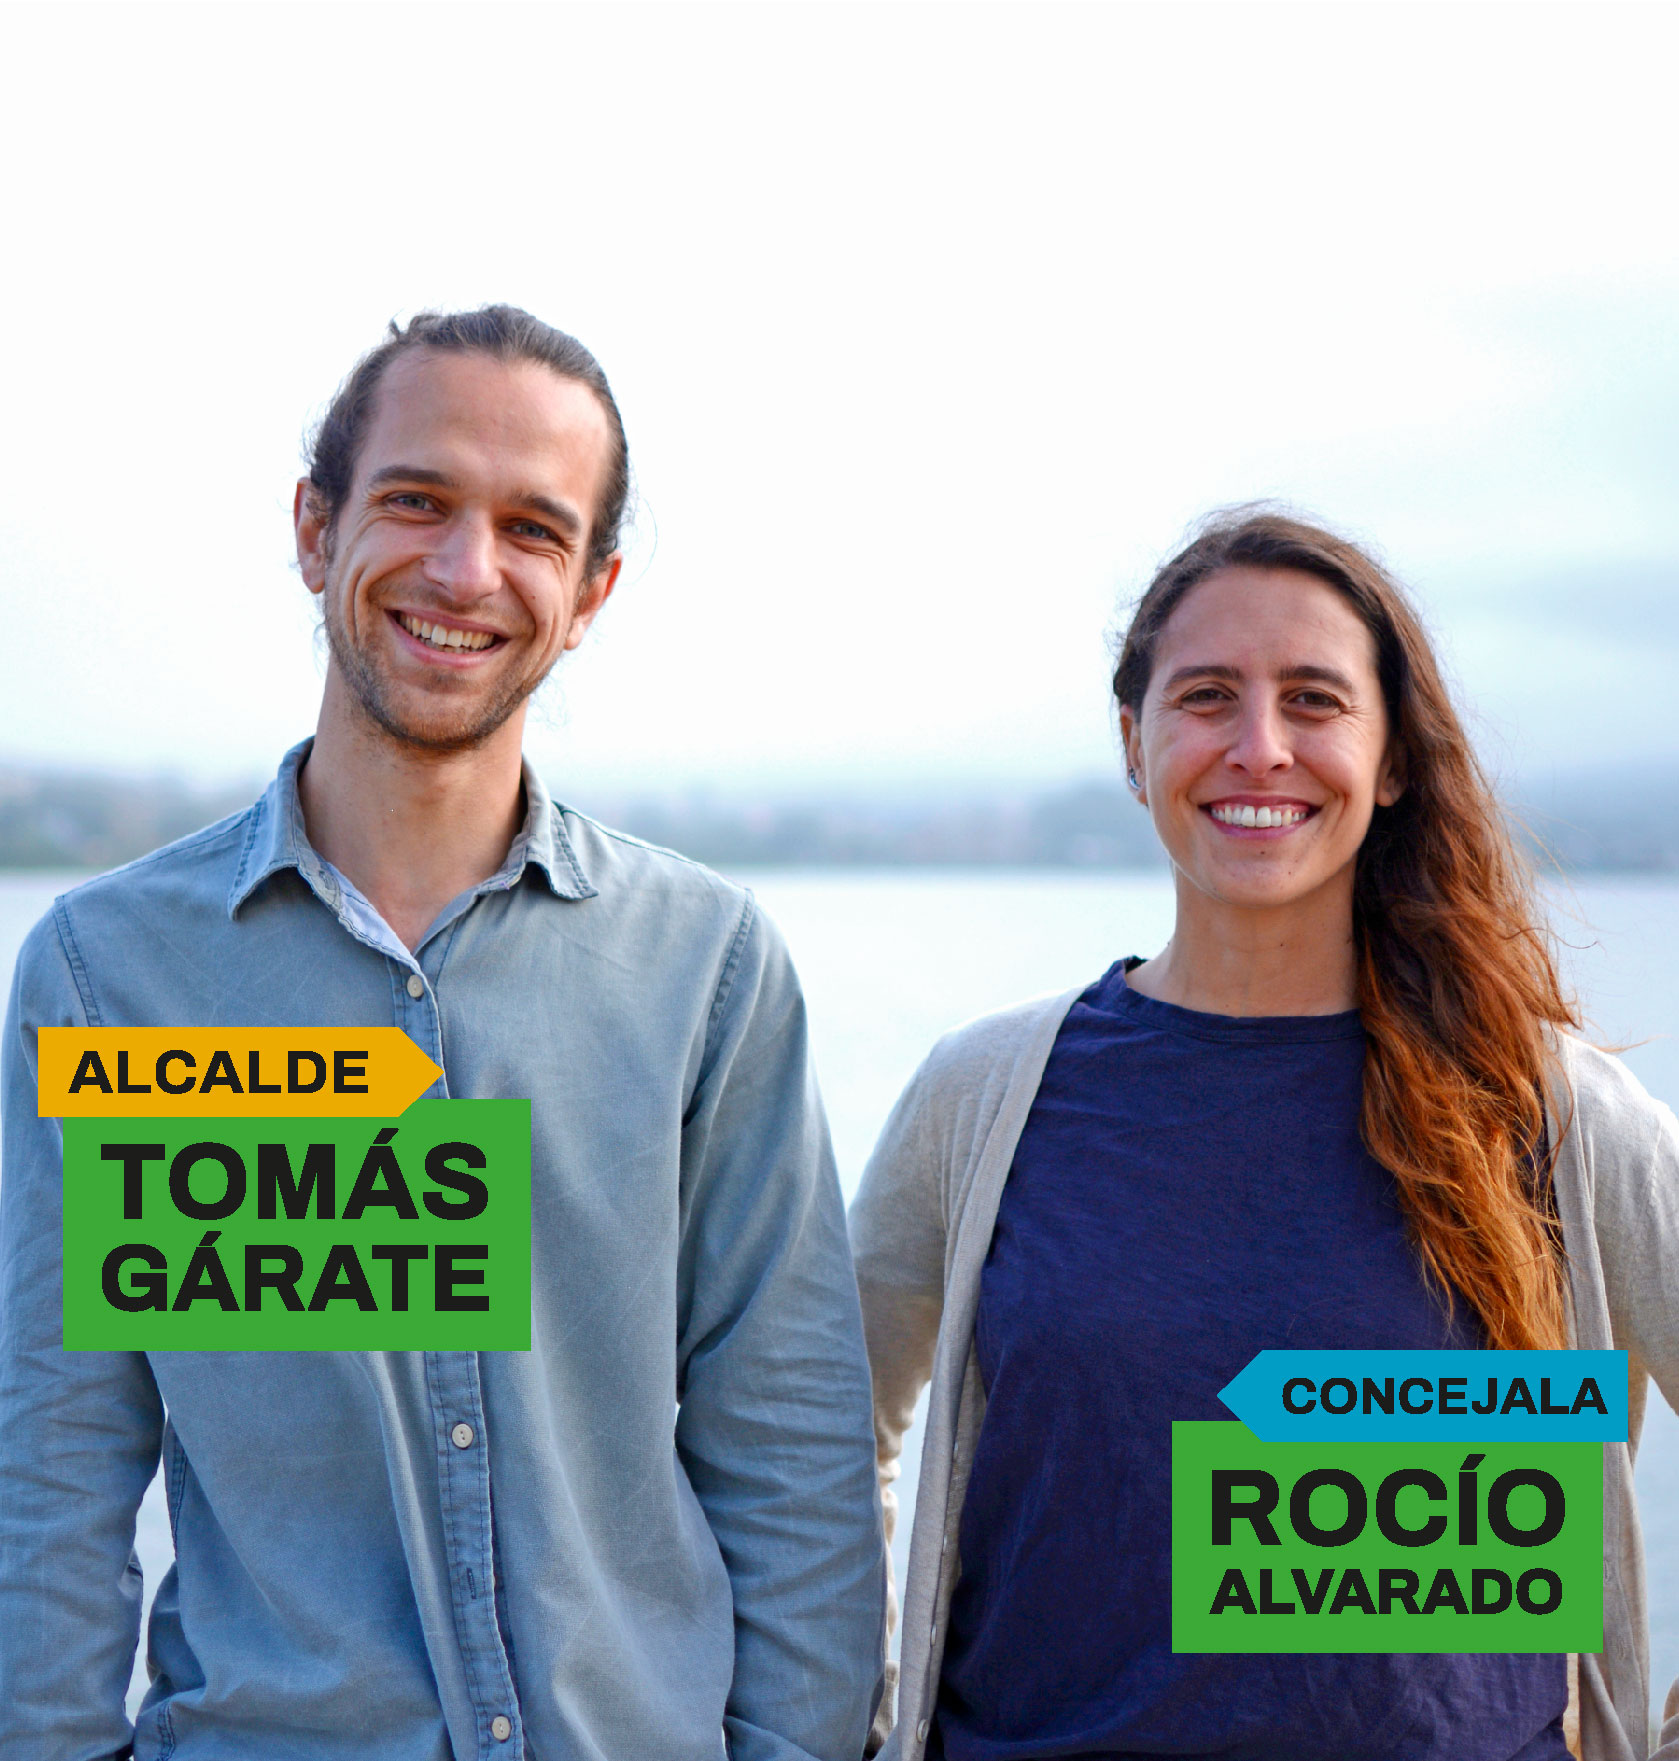
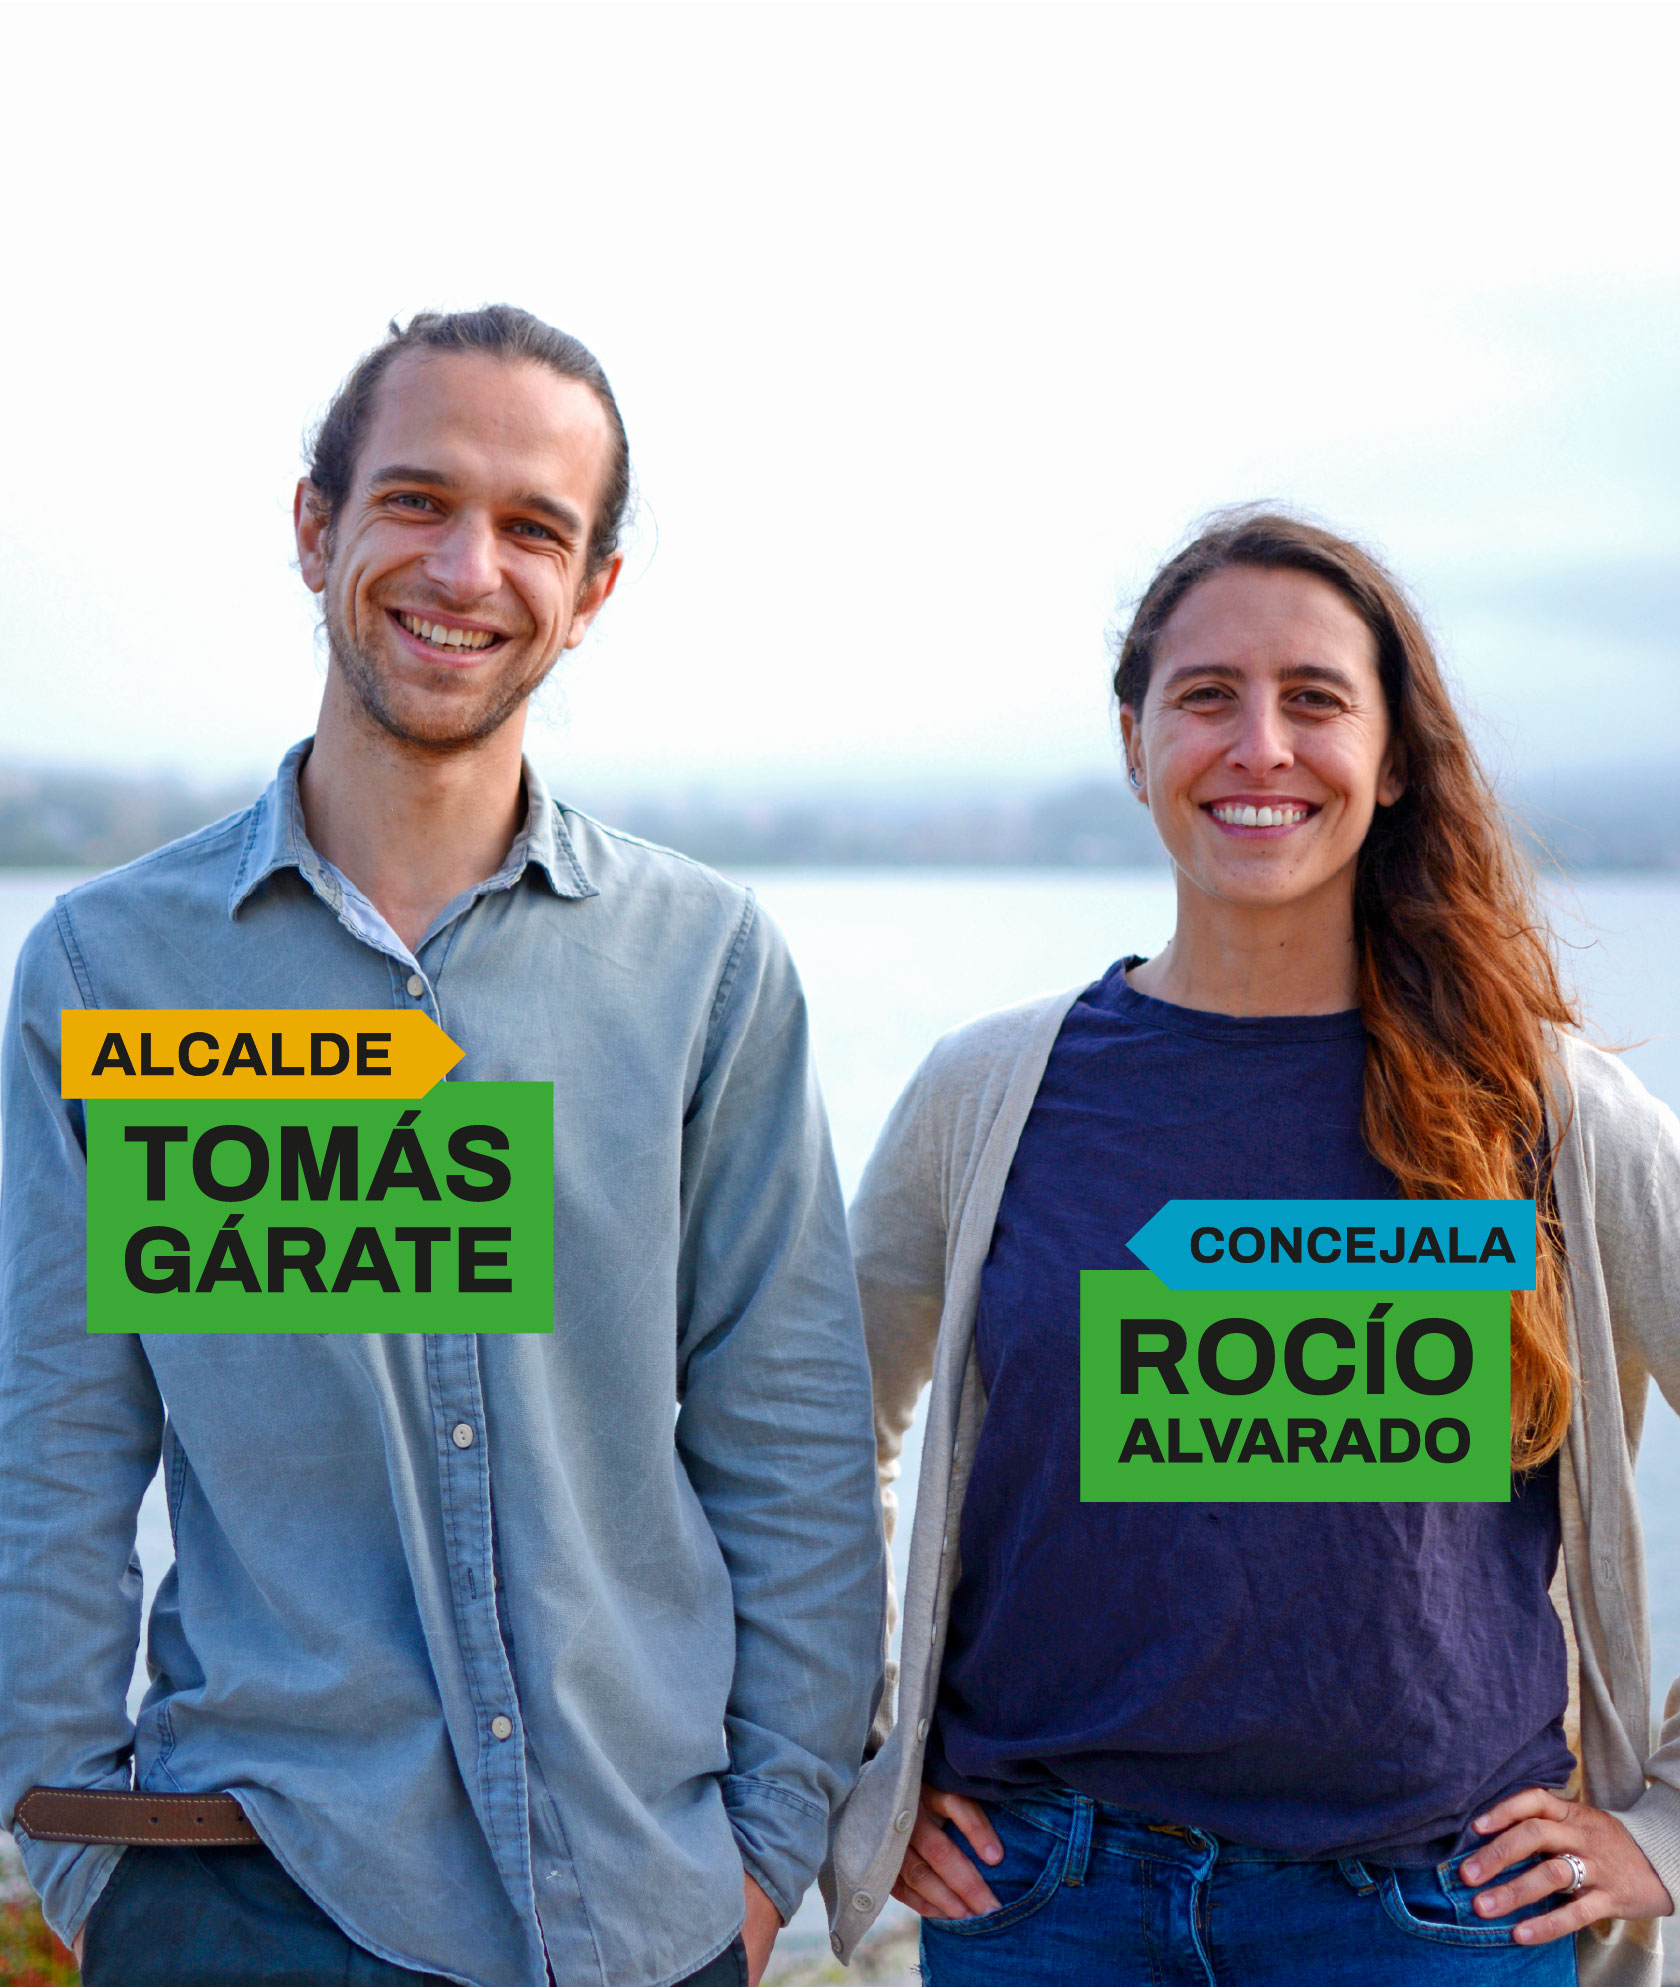
image resized for mobile

diff --git a/_includes/header.html b/_includes/header.html
@@ -116,7 +116,7 @@
     </nav>    
   </div>
 
-  <div class="uk-height-large uk-background-cover uk-flex uk-flex-between uk-flex-middle" data-src="assets/img/tomas_rocio_mobile2-02.png" uk-img>
+  <div class="uk-height-large uk-background-cover uk-flex uk-flex-between uk-flex-middle" data-src="assets/img/tomas_rocio_mobile.jpg" uk-img>
     <!-- <div>
       Algo dentro de la imagen
     </div> -->
